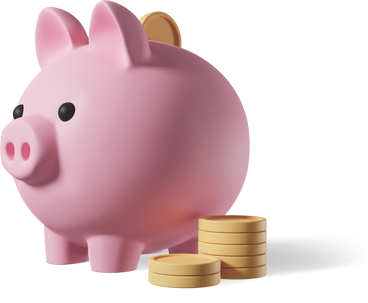
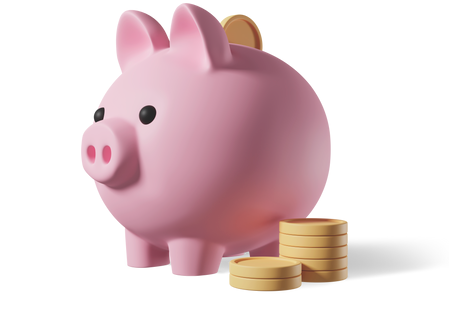
feature: selected items updating state with array

diff --git a/src/components/CounterCard/CounterCard.jsx b/src/components/CounterCard/CounterCard.jsx
@@ -7,6 +7,7 @@ const CounterCard = ({ ...props }) => {
 
     const context = useInitiativeContext()
     let investedAmount = context.investedAmount
+    // let selectedElements = context.selectedElements
 
     let [value, setValue] = useState(0)
 
@@ -23,18 +24,36 @@ const CounterCard = ({ ...props }) => {
         // Value for each card
         setValue(value += 1)
 
-        // Updating checkout list
-        context.setSelectedElements(prevList => [
-            ...prevList,
-            {
-                "id": props.id === prevList.id ? props.amount += 1 : props.id,
-                "channel": props.channel,
-                "name": props.country,
-                "flag": props.flag,
-                "budget": props.budget,
-                "amount": props.amount
-            }])
-        console.log(context.selectedElements)
+        // Updating checkout list ADDING
+        context.setSelectedElements(prevList => {
+            let found = false;
+            const newList = prevList.map(item => {
+                if (item.id === props.id) {
+                    found = true;
+                    return {
+                        ...item,
+                        amount: item.amount + 1
+                    };
+                } else {
+                    return item;
+                }
+            });
+
+            if (!found) {
+                newList.push({
+                    id: props.id,
+                    channel: props.channel,
+                    name: props.country,
+                    flag: props.flag,
+                    budget: props.budget,
+                    amount: props.amount + 1
+                });
+            }
+
+            console.log(newList);
+            return newList;
+        });
+        // console.log(context.selectedElements)
 
 
     }
@@ -48,6 +67,29 @@ const CounterCard = ({ ...props }) => {
 
         // Value for each card
         setValue(value >= 1 ? value -= 1 : value = 0)
+
+        // Updating checkout list FOR MINUS
+        context.setSelectedElements(prevList => {
+            let found = false;
+            const newList = prevList.map(item => {
+                if (item.id === props.id) {
+                    found = true;
+                    return {
+                        ...item,
+                        amount: item.amount >= 1 ? item.amount - 1 : 0
+                    };
+                } else {
+                    return item;
+                }
+            });
+
+            if (!found) {
+                console.log('Selecciona al menos un elemento para eliminarlo')
+            }
+
+            console.log(newList);
+            return newList;
+        });
     }
 
 

diff --git a/src/pages/Home.jsx b/src/pages/Home.jsx
@@ -18,8 +18,8 @@ const Home = () => {
             <span className="navbar-toggler-icon" />
           </button> */}
           {/* Budget summary fixed */}
-          <p className="text-center poppins-light budget available">Presupuesto Disponible: <span className="poppins-bold">{`$${context.budgetAmount}`}</span></p>
-          <p className="text-center poppins-light budget invested">Presupuesto Invertido: <span className="poppins-bold">{`$${context.investedAmount}`}</span></p>
+          <p className="text-center poppins-light budget available">💰 Disponible: <span className="poppins-bold">{`$${context.budgetAmount}`}</span></p>
+          <p className="text-center poppins-light budget invested">💸 Invertido: <span className="poppins-bold">{`$${context.investedAmount}`}</span></p>
         </div>
       </nav>
       {/* End: Navigation */}
@@ -27,14 +27,14 @@ const Home = () => {
       <section className="header">
         <div className="container">
           <div className="row justify-content-center mt-5 align-items-center">
-            <div className="col-10 col-md-8 col-lg-8">
+            <div className="col-12 col-md-8 col-lg-8">
               <h1 className="text-center">Controla el presupuesto </h1>
               <h4 className="text-center poppins-light">de las iniciativas Pozuelo en Punto de Venta</h4>
             </div>
           </div>
           <div className="row justify-content-center">
-            <div className="col-4">
-              <img src="../pozuelo-presupuesto.png" className="img-fluid" />
+            <div className="col-12 col-md-4 col-lg-4">
+              <img src="../pozuelo-presupuesto.png" className="img-fluid mt-5" />
             </div>
           </div>
         </div>

diff --git a/src/index.scss b/src/index.scss
@@ -142,6 +142,10 @@ color: $grey
   background:linear-gradient(180deg, #fdf0f0, #f7f7f0)
 }
 
+.container-vh{
+  height: 600px;
+}
+
 .navbar{
   font-size: clamp(16pt, 1.25rem, 19pt);
   background-color: transparent !important;
@@ -151,9 +155,11 @@ color: $grey
     margin-bottom: 0;
     &.available{
       color:grey;
+      font-size: clamp(12pt, 1.25rem, 18pt);
     }
     &.invested{
-      color:$pozueloRed
+      color:$pozueloRed;
+      font-size: clamp(12pt, 1.25rem, 18pt);
     }
   }
 }
@@ -166,8 +172,15 @@ color: $grey
     justify-content: center;
     backdrop-filter: blur(100px) brightness(180%);
     background-color: #f7f7f0;
+    width: 100%;
     & .logo{
-      display: none;
+      max-width:50%;
+      margin: 3vw;
+    }
+    & .budget {
+      &.invested{
+        font-size: clamp(10pt, 1.15rem, 16pt);
+      }
     }
   }
 }

diff --git a/src/context/InitiativesContext.jsx b/src/context/InitiativesContext.jsx
@@ -7,6 +7,11 @@ const InitiativeContext = createContext()
 function InitiativesProvider({ ...props }) {
     const [budgetAmount, setBudgetAmount] = useState(74500)
     const [investedAmount, setInvestedAmount] = useState(0)
+
+    const [idNumber, setIdNumber] = useState()
+    const [amount, setAmount] = useState(0)
+
+
     const [selectedElements, setSelectedElements] = useState([])
     const [amountSelectedElements, setAmountSelectedElements] = useState(0)
 
@@ -25,6 +30,11 @@ function InitiativesProvider({ ...props }) {
         setSelectedElements,
         amountSelectedElements,
         setAmountSelectedElements,
+
+        idNumber,
+        setIdNumber,
+        amount,
+        setAmount,
 
         PuntoPozuelo,
         DescubreMundoPozuelo,

diff --git a/src/pages/ErrorPage.jsx b/src/pages/ErrorPage.jsx
@@ -1,7 +1,18 @@
+import { Link } from 'react-router-dom'
 
 const ErrorPage = () => {
   return (
-    <div>ErrorPage</div>
+    <>
+      <div className="container-full container-vh">
+        <div className="row justify-content-center align-items-center">
+          <div className='col-8 col-md-8 col-lg-8 text-center'>
+            <img className="img-fluid" src={'../../error.png'} />
+            <h2>Oops! El servidor lo hizo de nuevo</h2>
+            <p>Intenta <Link>regresar al inicio</Link></p>
+          </div>
+        </div>
+      </div>
+    </>
   )
 }
 
